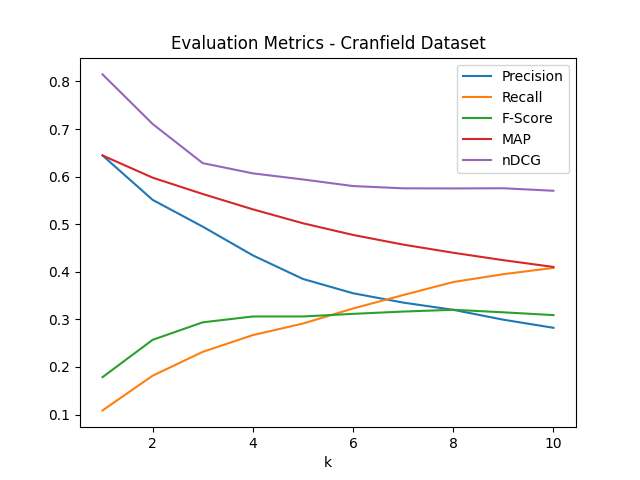
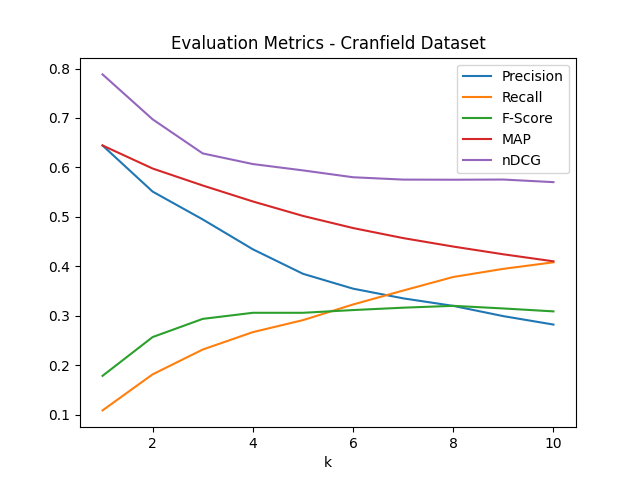
Made nDCG=0 when IDCG=0

diff --git a/Assignment_2/Assignement-1 part-2/evaluation.py b/Assignment_2/Assignement-1 part-2/evaluation.py
@@ -327,10 +327,10 @@ class Evaluation():
 			if count <= k:
 				IDCG = IDCG + (self.get_rel_score(query_id,element,qrels) / math.log2(count + 1))
 				count = count + 1
-		# When there are no documents in the ideally relevant to the query then there are no documents to display.
+		# When there are no documents ideally relevant to the query then there are no documents to display.
 		# Thus the relevance score is 1.
 		if IDCG == 0:
-			IDCG = 1
+			return 0
 		nDCG = DCG / IDCG
 		return nDCG
 
